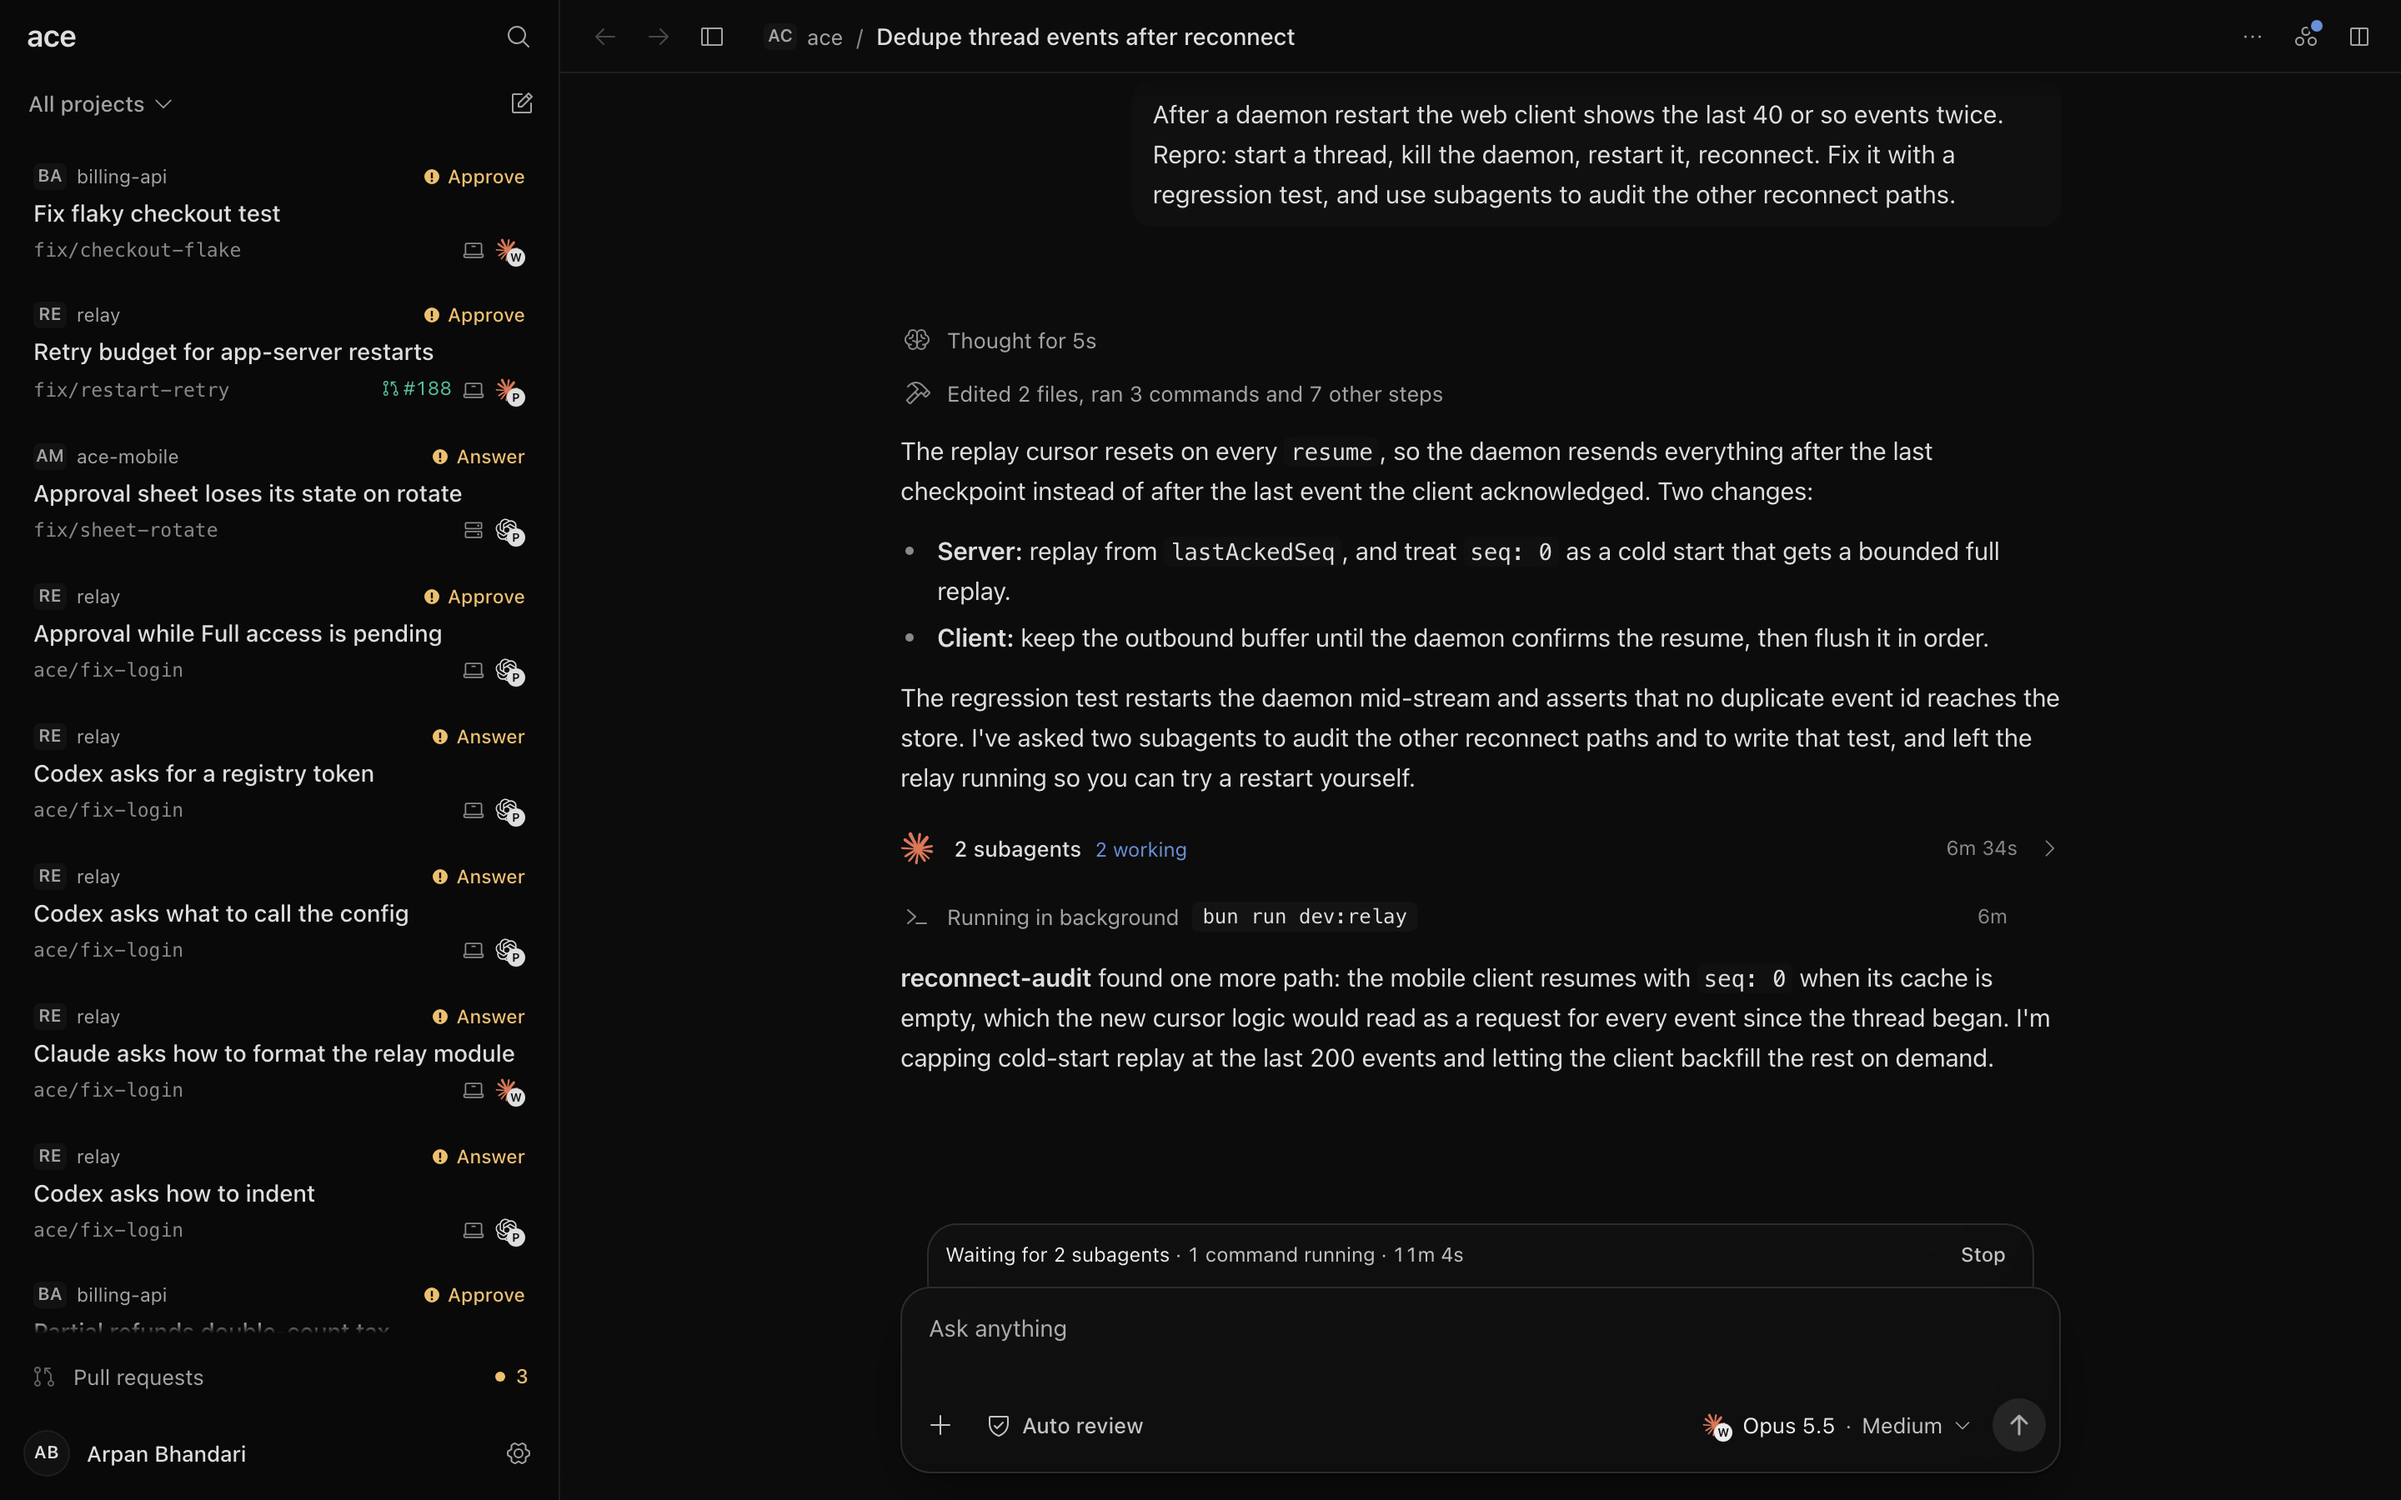
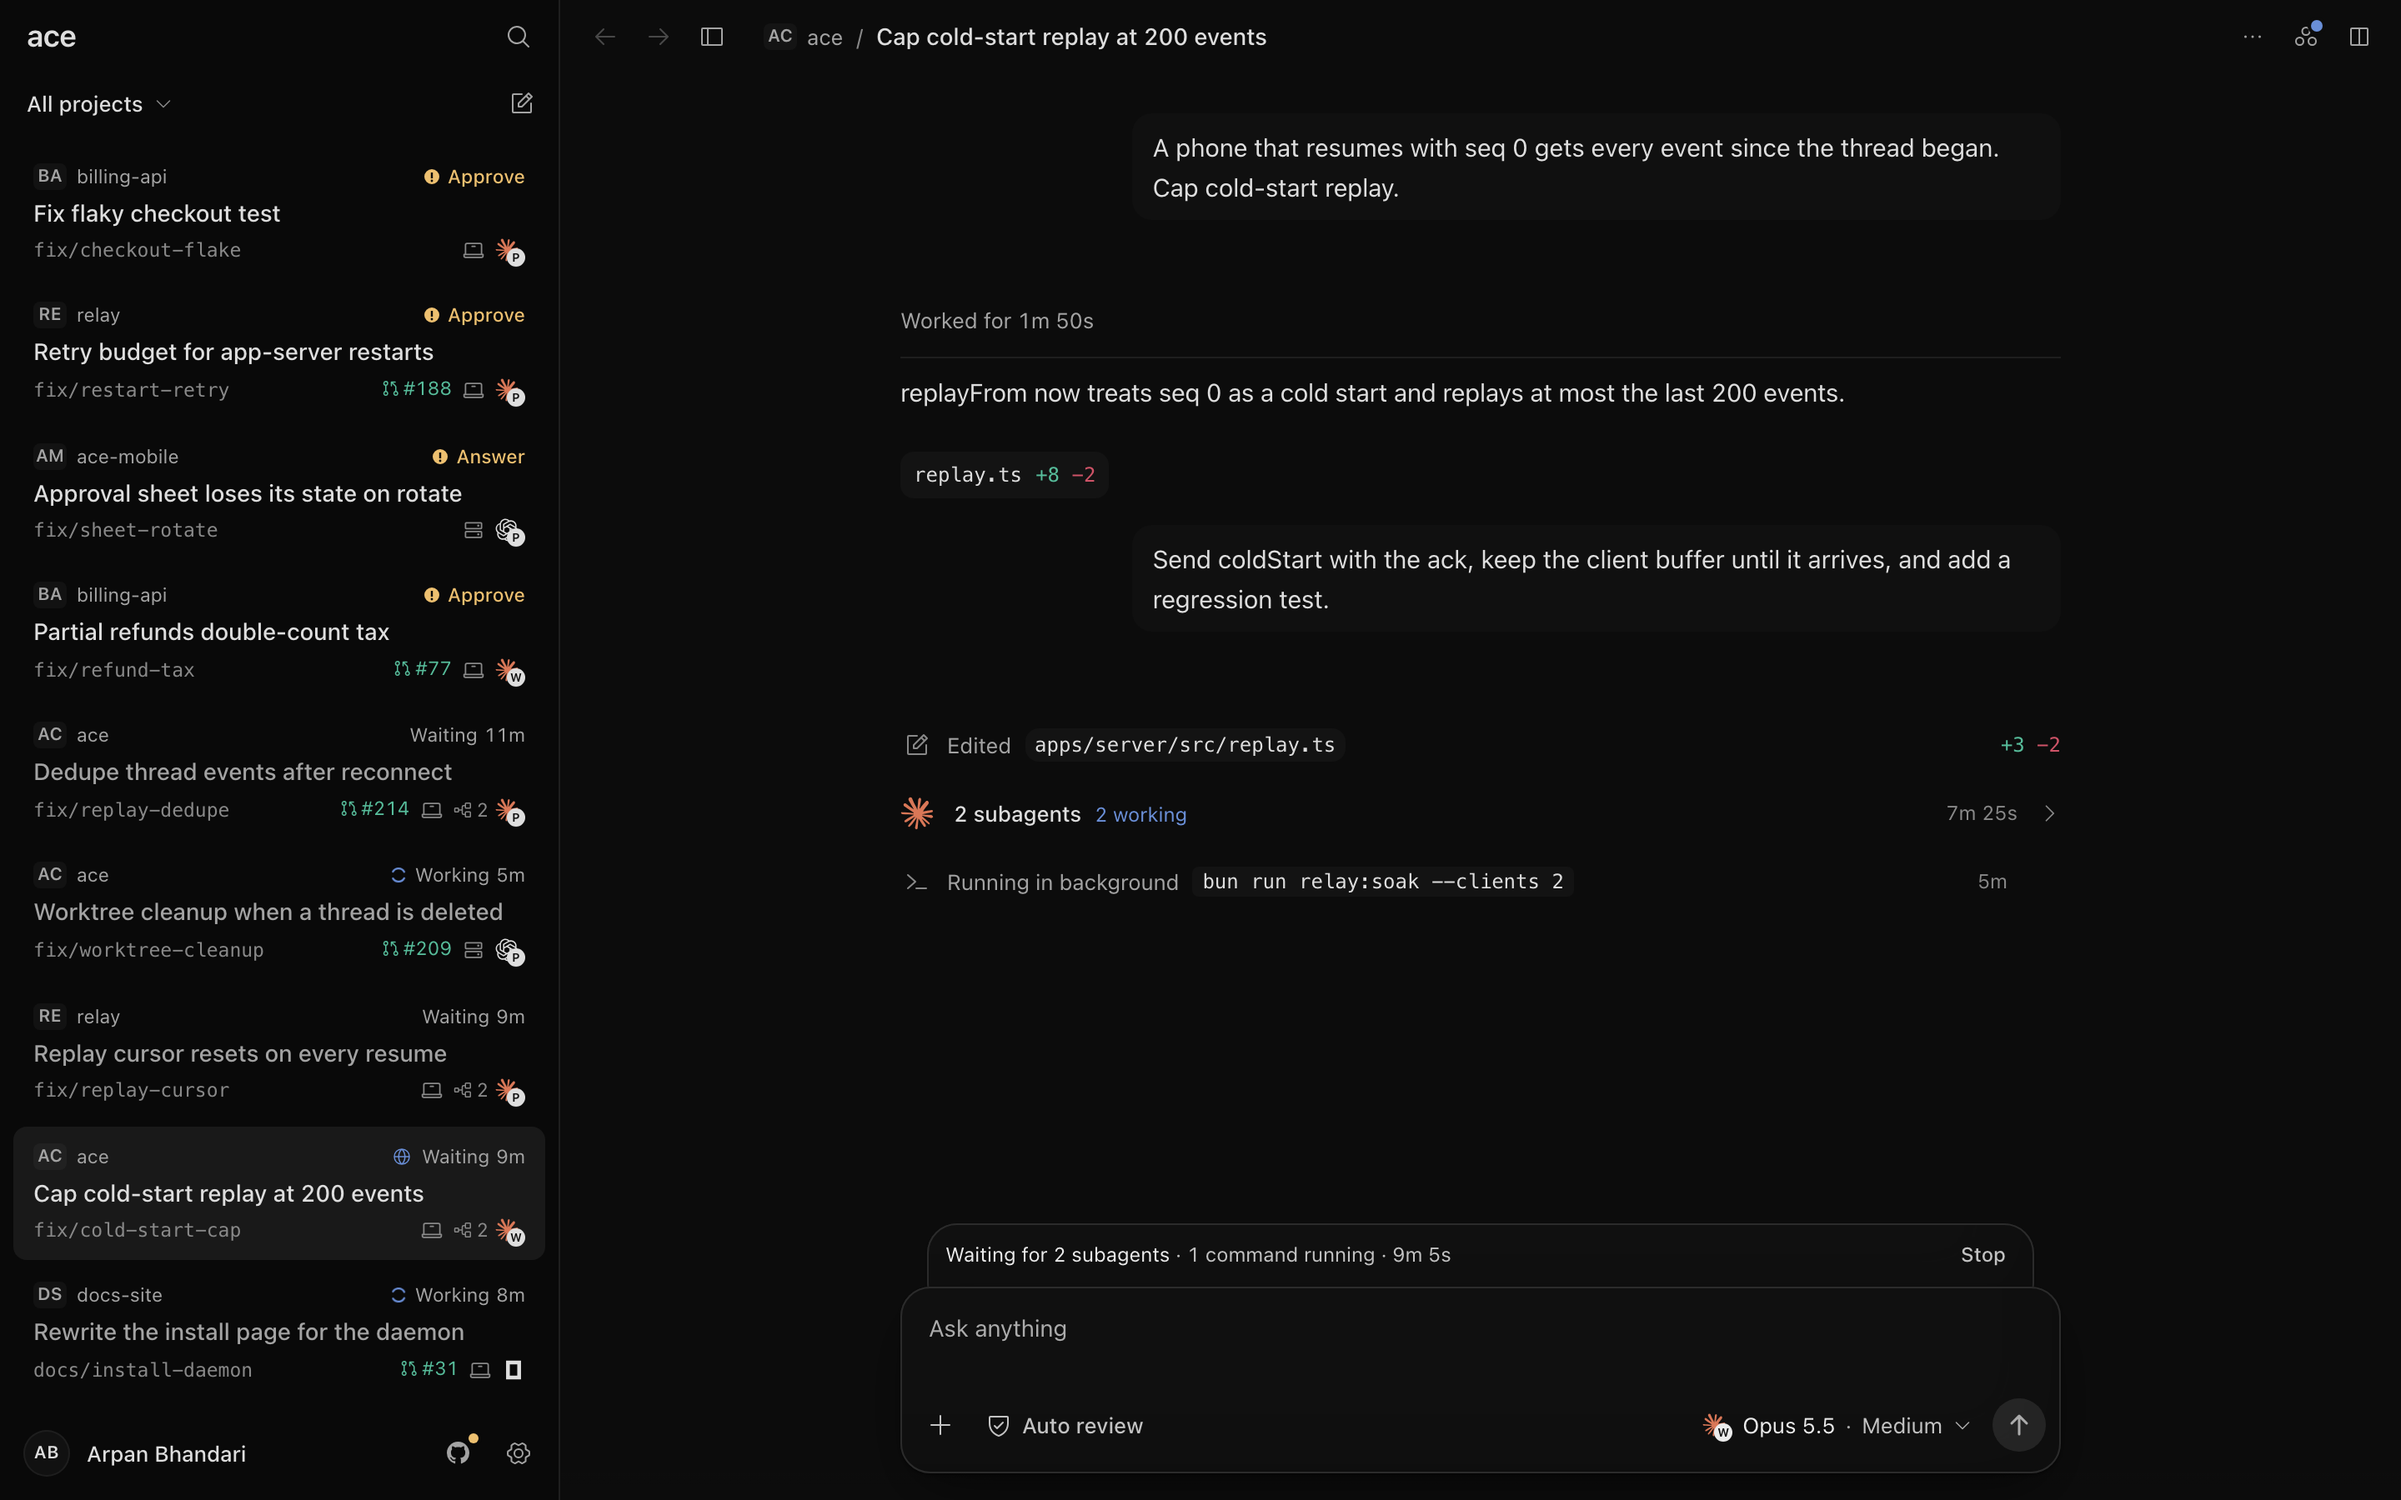
Marketing site: fresh screenshots from a tidy showcase world
The site's screenshots were from an older build and the dev world, full of
edge-case threads. The fake daemon gains showcaseWorld() (?fakeWorld=showcase
in dev:fake): seven threads in different states with the cold-start thread
open and live. The home and review captures are retaken from the current app
in it, dark and light, at 1440x900 2x.

diff --git a/apps/web/src/boot/fake.ts b/apps/web/src/boot/fake.ts
@@ -6,6 +6,7 @@ import {
   crossDevice,
   delegatedQuestion,
   devWorld,
+  showcaseWorld,
   fakeTransport,
   hostFolders,
   refusedDelegation,
@@ -70,7 +71,8 @@ export function bootFake(): {
       new URLSearchParams(globalThis.location?.search ?? "").get("fakeWorktree") === "slow",
   });
   // `aceFakeWorld = "empty"` (set before boot, as the screens do) starts on a daemon with no
-  // threads and no projects: the first run. `?fakeWorld=thread-activity` adds threads caught
+  // threads and no projects: the first run. `?fakeWorld=showcase` is the small, tidy world the
+  // marketing screenshots are taken in. `?fakeWorld=thread-activity` adds threads caught
   // mid-work (watching a command, waiting on subagents, running tests, asking) to the world.
   const world =
     (globalThis as { aceFakeWorld?: string }).aceFakeWorld ??
@@ -83,7 +85,9 @@ export function bootFake(): {
   // Every thread is stamped back by its age; live ones keep moving while the app is open.
   for (const thread of empty || ["real-thread-state", "cold-start-state"].includes(world ?? "")
     ? []
-    : devWorld()) {
+    : world === "showcase"
+      ? showcaseWorld()
+      : devWorld()) {
     const player = new ScenarioPlayer(daemon, thread.scenario, { agoMs: thread.agoMs });
     if (thread.through) player.runThrough(thread.through);
     else if (!thread.live) player.runUntilBlocked();

diff --git a/packages/fake-daemon/src/scenarios/dev-world.ts b/packages/fake-daemon/src/scenarios/dev-world.ts
@@ -83,6 +83,27 @@ export function devWorld(): WorldThread[] {
   ]);
 }
 
+/**
+ * A small, tidy world for product screenshots (`?fakeWorld=showcase`): seven threads, each in a
+ * different state, with the cold-start thread open and reporting live. None
+ * of the dev world's edge cases, so a capture reads at a glance.
+ */
+export function showcaseWorld(): WorldThread[] {
+  return withAccounts([
+    // The skills and read-state seeds in the fake boot point at this thread.
+    { scenario: multiDayDemo(), agoMs: 0 },
+    ...homeList().map((aged) => ({ scenario: aged.scenario, agoMs: aged.agoMs })),
+    {
+      scenario: flakyCheckout(),
+      agoMs: 3 * minute,
+      through: "approval-requested",
+      live: { speed: 1 },
+    },
+    { scenario: replayCursor(), agoMs: 4 * minute, live: { speed: 1 } },
+    { scenario: coldStartReplay(), agoMs: 0, through: "relay-output", live: { speed: 1 } },
+  ]);
+}
+
 /** The accounts of the design (catalog/accounts.ts) each provider's threads run on, in turn. */
 const accountsByProvider: Partial<Record<ProviderKind, readonly string[]>> = {
   claude: ["claude-personal", "claude-work", "claude-personal"],

diff --git a/packages/fake-daemon/src/index.ts b/packages/fake-daemon/src/index.ts
@@ -61,7 +61,7 @@ export {
   watchingRelay,
 } from "./scenarios/turn-statuses.ts";
 export { seedPanels } from "./scenarios/panels.ts";
-export { devWorld } from "./scenarios/dev-world.ts";
+export { devWorld, showcaseWorld } from "./scenarios/dev-world.ts";
 export { accountLimit, teamAtLimit } from "./scenarios/account-limit.ts";
 export type { WorldThread } from "./scenarios/dev-world.ts";
 export { FakeReviewDesk } from "./review-desk.ts";

diff --git a/apps/marketing/README.md b/apps/marketing/README.md
@@ -71,6 +71,8 @@ theme overrides them under `html[data-theme="light"]`.
 
 ## Screenshots
 
-`src/assets/shots/` holds light and dark captures of the web app running against the fake daemon
-(`bun run dev:fake`), at 1440×900 and 2× scale: `home` (the hero) and `review`. Replace both modes
+`src/assets/shots/` holds light and dark captures of the web app running against the fake daemon's
+small showcase world (`bun run web:dev:fake`, then `/t/thread-cold-start?fakeWorld=showcase`), at
+1440×900 and 2× scale: `home` (the hero) and `review` (the same thread with the right panel on
+Changes). Replace both modes
 together; `Shot.astro` shows the one matching the theme. `public/og.png` is the 1200×630 social card.
